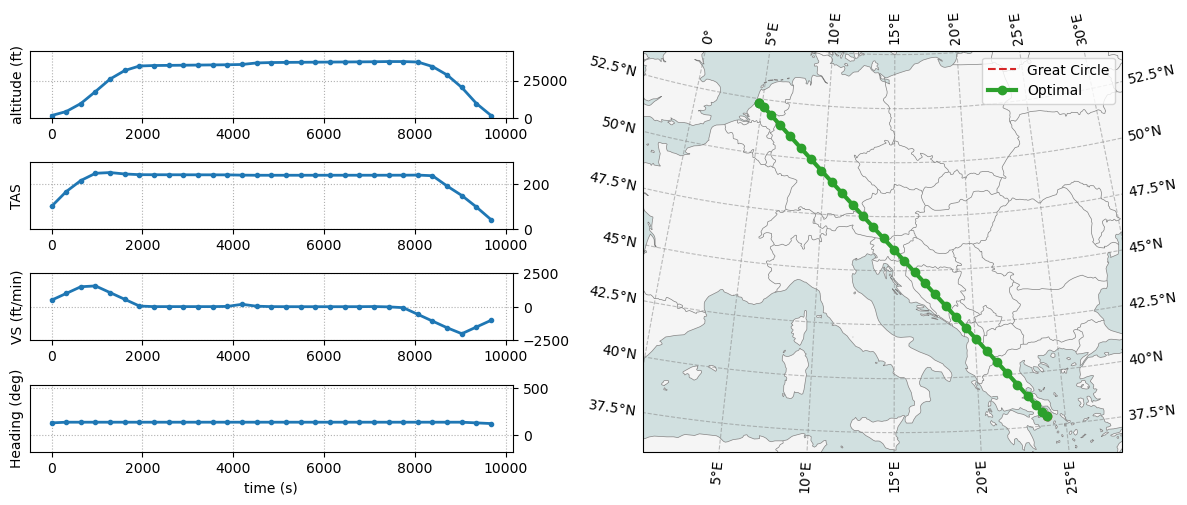
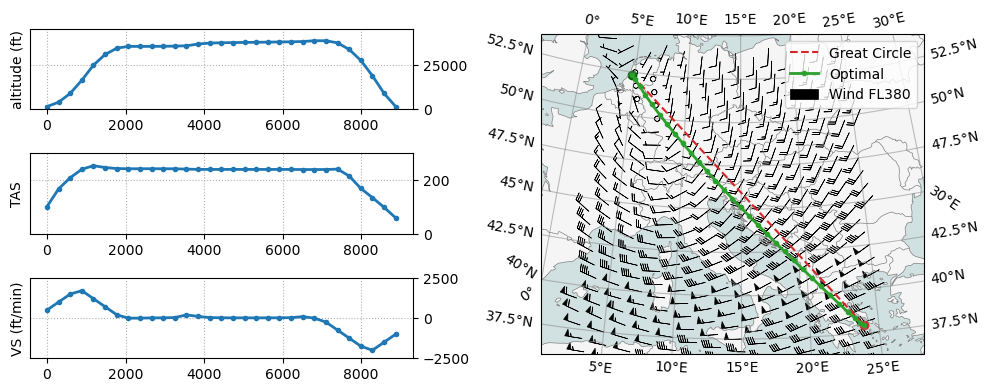
update example figure

Changed region(s): [[0.0, 0.0306, 1.0, 0.9796], [0.4247, 0.7653, 0.455, 0.8265], [0.4247, 0.3367, 0.455, 0.398]]

diff --git a/openap/top/vis.py b/openap/top/vis.py
@@ -74,8 +74,8 @@ def trajectory_on_map(df, windfield=None, ax=None, wind_sample=4):
         df.lat,
         color="tab:green",
         transform=ccrs.Geodetic(),
-        linewidth=3,
-        marker="o",
+        linewidth=2,
+        marker=".",
         label="Optimal",
     )
 
